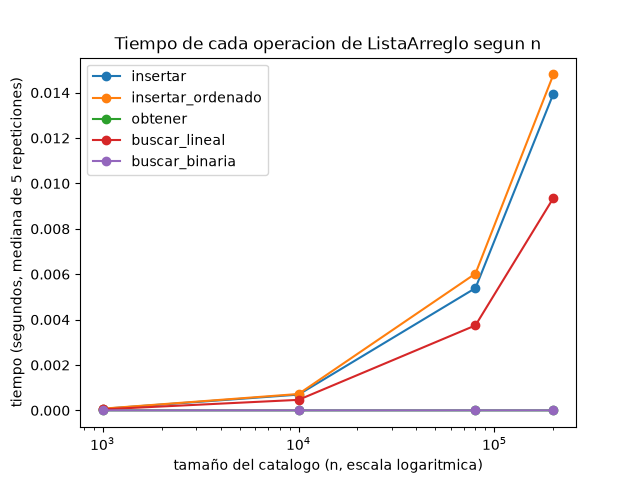
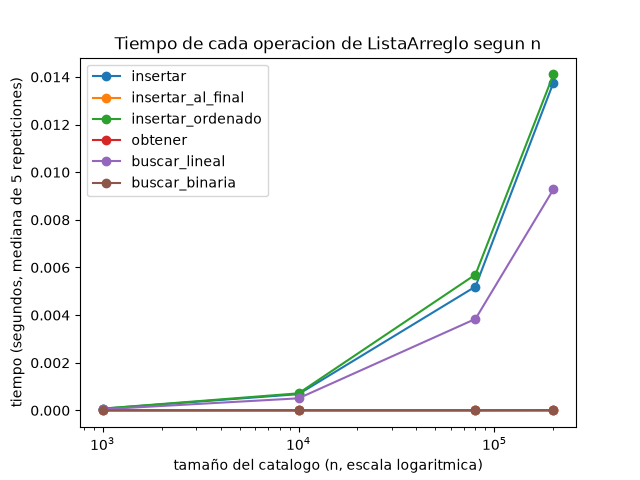
Agregar medicion de insertar_al_final para el escenario desordenado

diff --git a/momento1_biblioteca/medicion.py b/momento1_biblioteca/medicion.py
@@ -11,6 +11,7 @@ REPETICIONES = 5
 
 OPERACIONES = {
     "insertar": lambda lista, n: lista.insertar(0, -1),
+    "insertar_al_final": lambda lista, n: lista.insertar(lista.tamano(), -1),
     "insertar_ordenado": lambda lista, n: lista.insertar_ordenado(n // 2),
     "obtener": lambda lista, n: lista.obtener(n // 2),
     "buscar_lineal": lambda lista, n: lista.buscar_lineal(-1),
